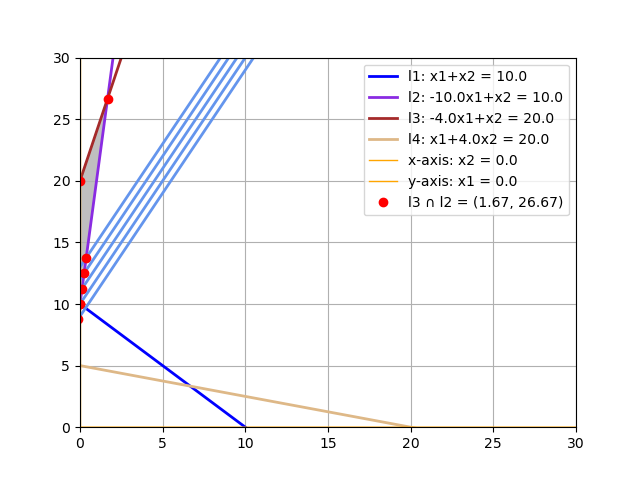
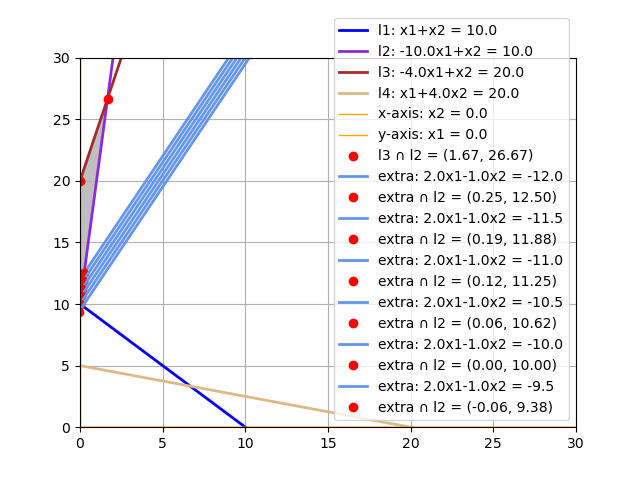
updated

Changed region(s): [[0.5, 0.0312, 0.9062, 0.875], [0.125, 0.125, 0.4062, 0.6562]]

diff --git a/2023-2024/Assignment_1/exercise_01.py b/2023-2024/Assignment_1/exercise_01.py
@@ -38,14 +38,26 @@ class Gui(LinearGUI):
     def solution(self, a, b, minlim, maxlim, legend=True):
 
         line_l3 = [l for l in self.lines if l.name == "l2"][0]
-        extra_lines = [line(a, b, i, "extra") for i in range(minlim, maxlim)]
+        # extra_lines = [line(a, b, i, "extra") for i in range(minlim, maxlim, step=0.5)]
+        line_yaxis = [l for l in self.lines if l.name == "y-axis"][0]
+        step = 0.5
+        # step = 1
+        counter = minlim
+        while counter < maxlim:
+            extra = line(a, b, counter, "extra")
+            extra.legend_show = False
+            extra.plot(self.xAxis, "cornflowerblue")
+            # extra.legend_show = True
+            extra.intersection(line_l3)
+            line_yaxis.intersection(extra)
+            counter += step
 
-        for lin in extra_lines:
-            lin.legend_show = False
-            lin.plot(self.xAxis, "cornflowerblue")
-            lin.legend_show = True
+            # for lin in extra_lines:
+            # lin.legend_show = False
+            # lin.plot(self.xAxis, "cornflowerblue")
+            # lin.legend_show = True
 
-            lin.intersection(line_l3)
+            # lin.intersection(line_l3)
 
 
 def main():
@@ -54,10 +66,15 @@ def main():
     # gui.create_figure()
     # gui.plt.savefig("img/exerc01_a.png", dpi="figure")
 
-    gui.name = "Z: min 2x1-x2"
+    # gui.name = "Z: min 2x1-x2"
+    # gui.create_figure()
+    # gui.solution(2, -1, -12, -9)
+    # gui.plt.savefig("img/exerc01_a_2.png", dpi="figure")
+
+    gui.name = "Z: min 11x1-x2"
     gui.create_figure()
-    gui.solution(2, -1, -13, -8)
-    gui.plt.savefig("img/exerc01_a_2.png", dpi="figure")
+    gui.solution(11, -1, -13, -8)
+    gui.plt.savefig("img/exerc01_b.png", dpi="figure")
 
     gui.show()
 

diff --git a/Tools/plt_line.py b/Tools/plt_line.py
@@ -67,8 +67,8 @@ class line:
     def plot(self, x, color=None, lw=2, ms=12):
         """plots the line, and the equation as a label"""
 
-        if self.type == "axis":
-            lw = 1
+        # if self.type == "axis":
+        #     lw = 1
 
         if self.b == 0:
             plt.axvline(
